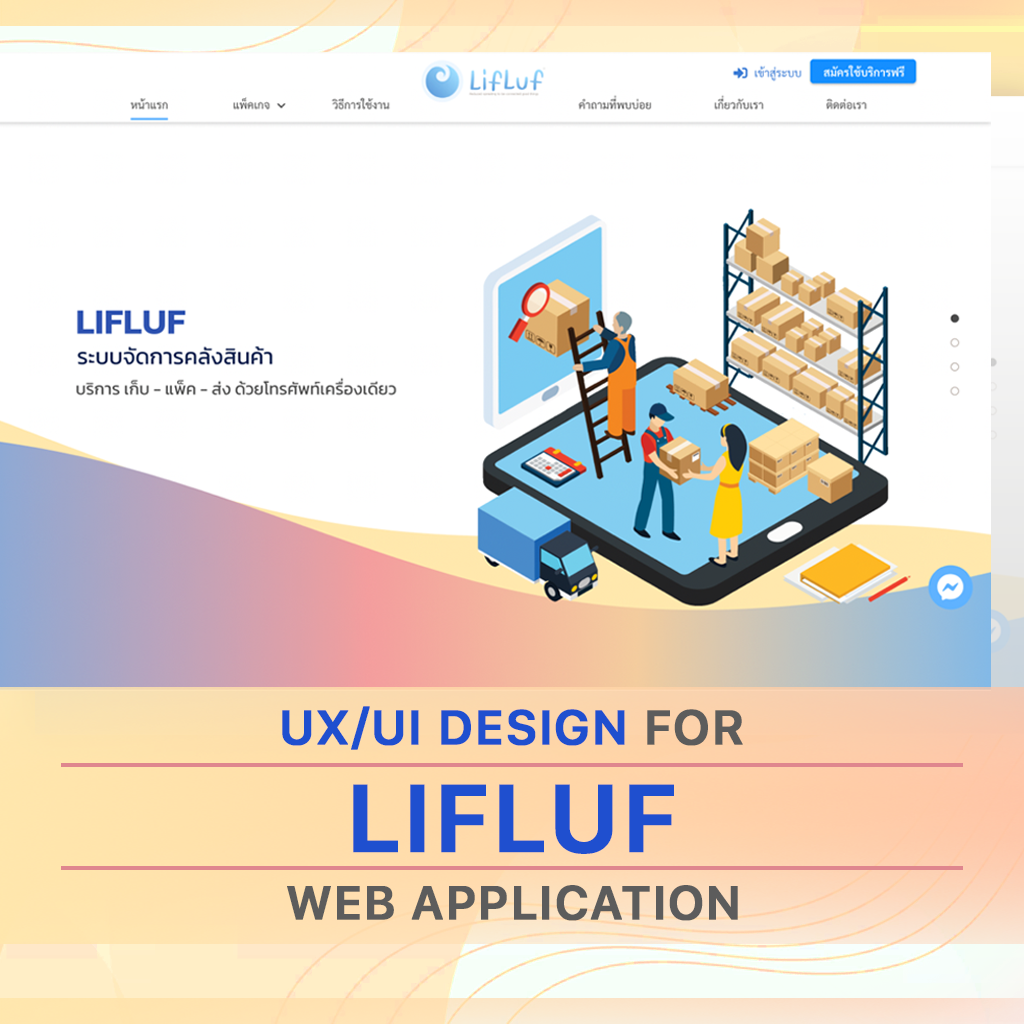
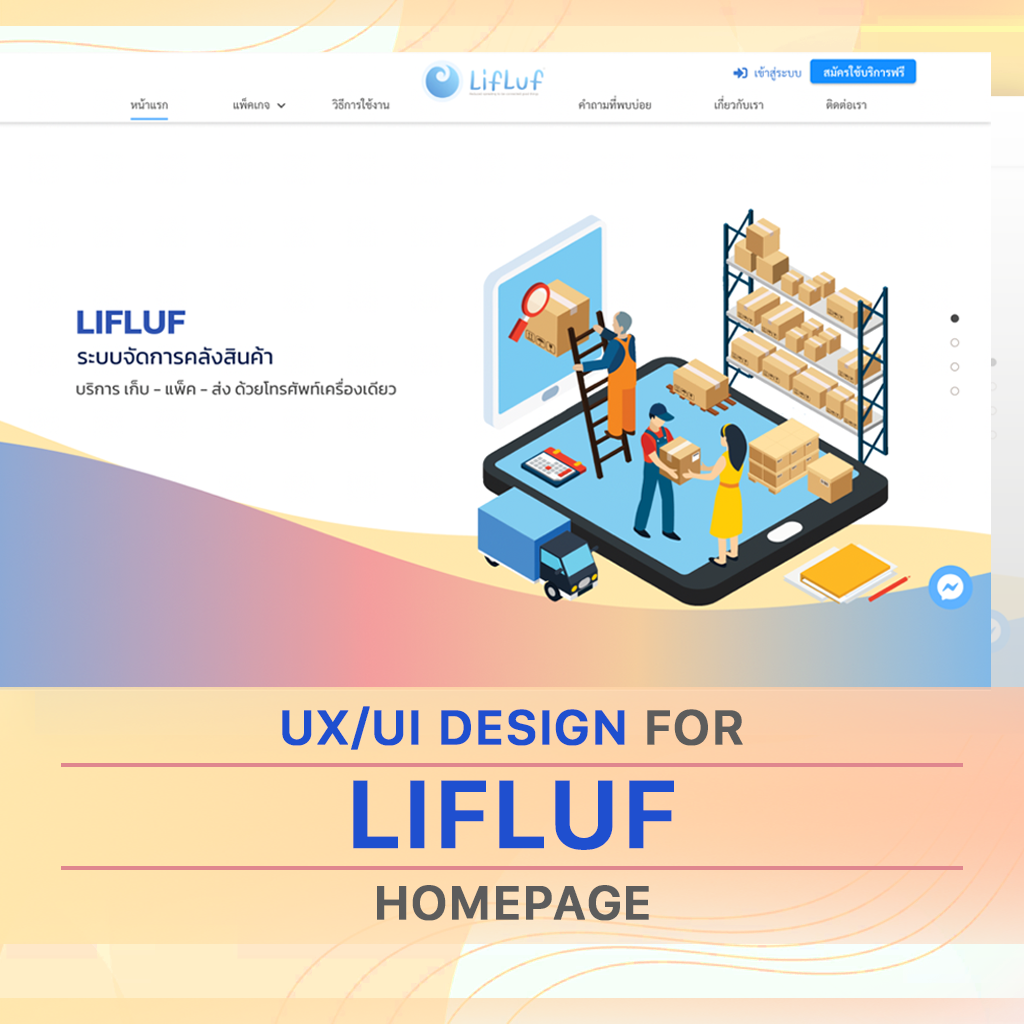
Edit homepage

Changed region(s): [[0.2812, 0.8125, 0.7188, 0.9062], [0.4375, 0.75, 0.5, 0.8125], [0.625, 0.75, 0.6562, 0.8125]]

diff --git a/lifluf.html b/lifluf.html
@@ -101,7 +101,7 @@ https://templatemo.com/tm-565-onix-digital
       <div class="row">
         <div class="col-lg-6 align-self-top">
           <div class="left-image">
-            <img src="assets/images/work1.png" style="border-radius: 10px; width: 80%;">
+            <img src="assets/images/work2.png" style="border-radius: 10px; width: 80%;">
           </div>
           <div class="left-image mt-3">
             <a class="pop">
@@ -113,8 +113,7 @@ https://templatemo.com/tm-565-onix-digital
         <div class="col-lg-6">
           <div class="section-heading">
             <h2><span>UX/UI DESIGN FOR </span></h2>
-            <h2><em>MEMBERSHIP SYSTEM</em> AND</h2>
-            <h2><em>CAMPAIGN MARKETING SYSTEM</em></h2>
+            <h2><em>LIFLUF WEBAPPLICATION</em> </h2>
             <p class="mt-4">This project is my senior project (graduation project). This project makes for The Shippop
               Company Limited. It's about membership system and campaign marketing system for admin marketing executive
               prepared on UX/UI design which have many methods such as requirement gathering, research, requirement

diff --git a/memberandcampaign.html b/memberandcampaign.html
@@ -115,7 +115,7 @@ https://templatemo.com/tm-565-onix-digital
             <h2><span>UX/UI DESIGN FOR </span></h2>
             <h2><em>MEMBERSHIP SYSTEM</em> AND</h2>
             <h2><em>CAMPAIGN MARKETING SYSTEM</em></h2>
-            <p class="mt-4">This project is my senior project (graduation project). This project makes for The Shippop
+            <p class="mt-4">This project is my graduation project (cooperative education project). This project makes for The Shippop
               Company Limited. It's about membership system and campaign marketing system for admin marketing executive
               prepared on UX/UI design which have many methods such as requirement gathering, research, requirement
               analysis, wireframe, prototype, usability testing and user interface design.</p>

diff --git a/index.html b/index.html
@@ -160,7 +160,7 @@ https://templatemo.com/tm-565-onix-digital
                 <img src="assets/images/work2.png" alt="">
                 <div class="hover-effect">
                   <div class="inner-content">
-                    <a href="#">
+                    <a href="lifluf.html">
                       <h4>LIFLUF</h4>
                     </a>
                     <span>UX/UI DESIGN PROJECT</span>
